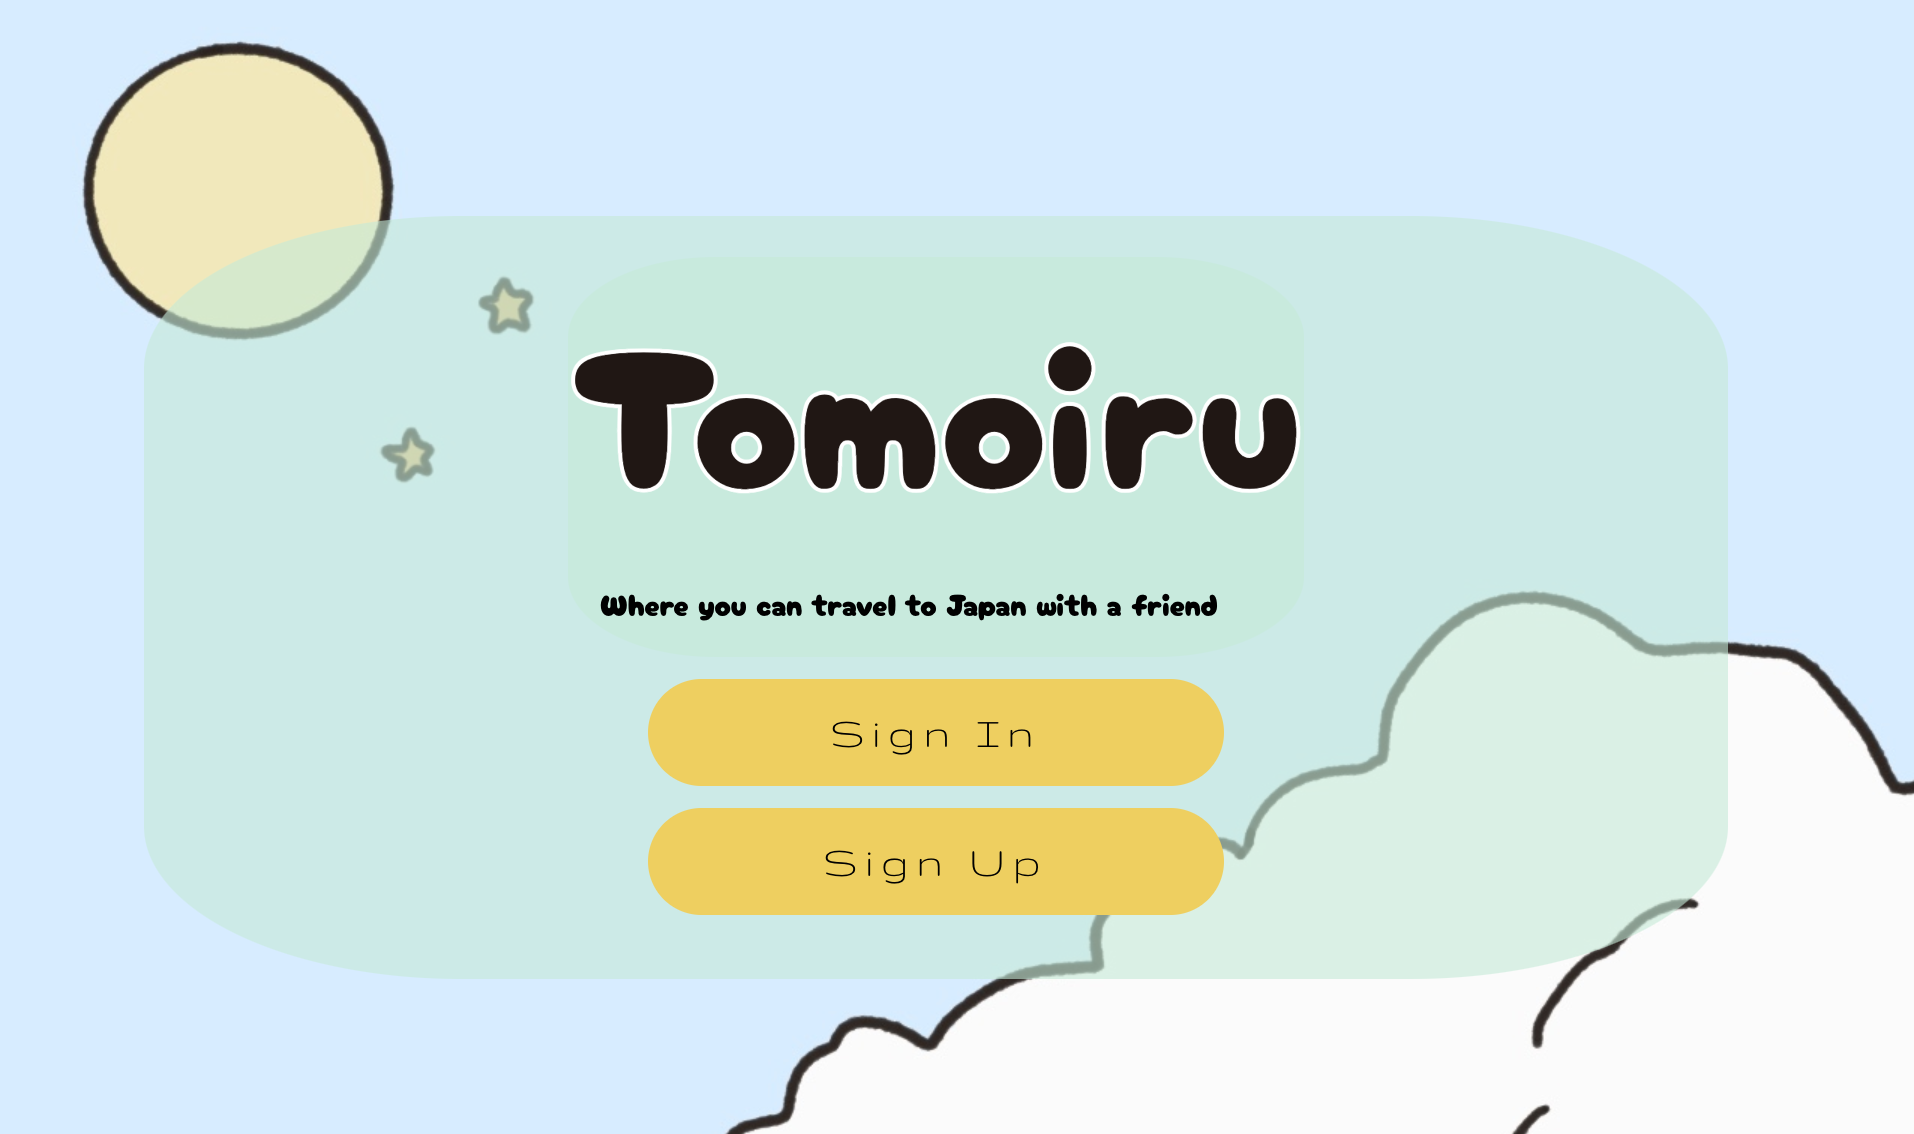
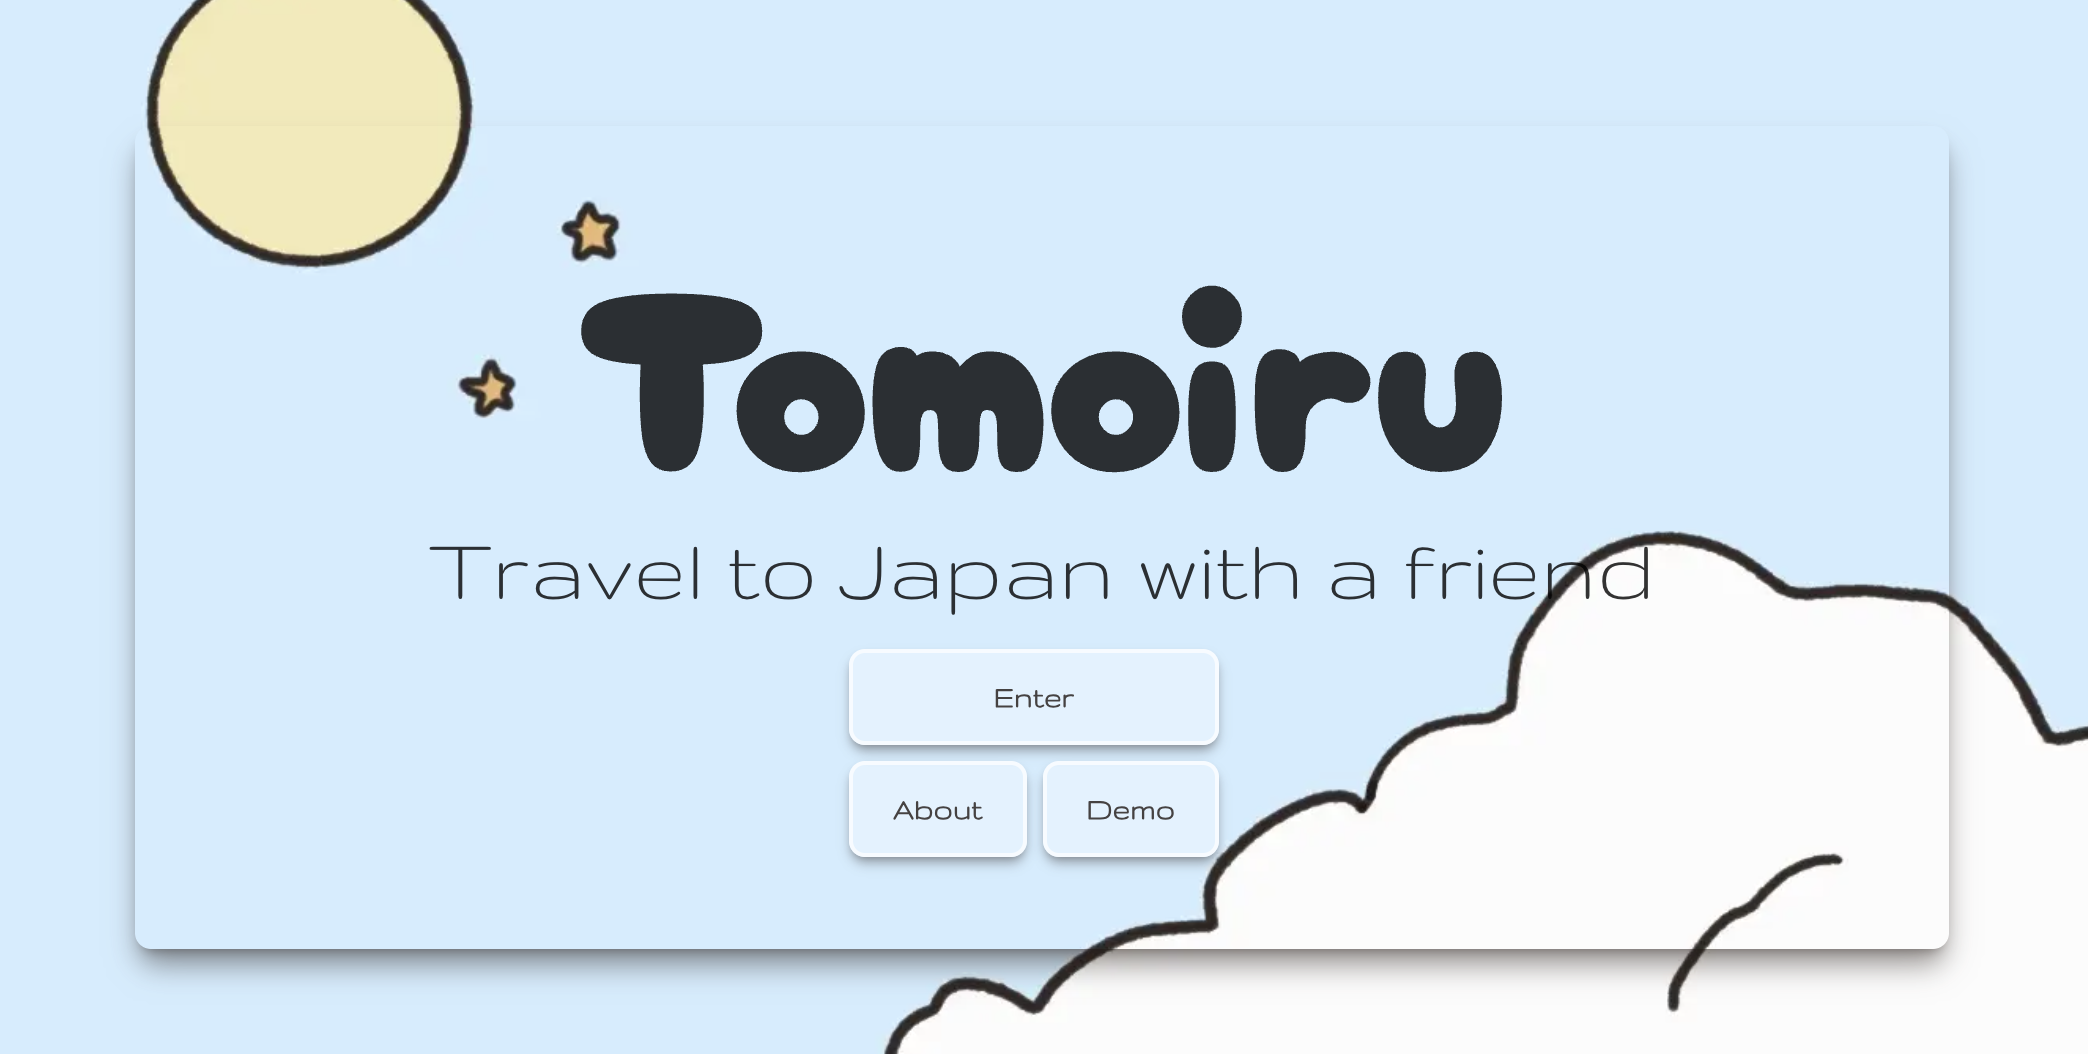
Merge pull request #18 from mira-kine/dev
Dev: Added to timeline

Pull request: Dev: Added to timeline

diff --git a/src/components/Journey.jsx b/src/components/Journey.jsx
@@ -2,10 +2,47 @@ import React from 'react';
 import { motion, AnimatePresence } from 'framer-motion';
 
 const journeyItems = [
-  'Biopsychology Cognition Neuroscience major',
-  'Mental health counselor',
-  'TEFL teacher',
-  'Software Engineer',
+  {
+    title:
+      'Biopsychology, Cognition, and Neuroscience major @ University of Michigan',
+    yearRange: '2014-2018',
+    subtitle: 'Survived the cold of Ann Arbor',
+    description:
+      'I learned extensively about humans and our minds, and how it is all connected.',
+  },
+  {
+    title: 'Mental health counselor @ Seneca Family of Agencies',
+    yearRange: '2018-2021',
+    subtitle: 'Crisis counseling, mental health advocacy and social work',
+    description:
+      'Had the opportunity of working with students who managed to stress the life out of me and then give it back ten-fold. I learned how to digest many complex problems at once while holding individual needs.',
+  },
+  {
+    title: 'TEFL teacher and STEP Tutor',
+    yearRange: '2021-2022',
+    subtitle: 'Teaching English online and tutoring Title I students',
+    description:
+      'My counseling hours were reduced due to covid, so I got a TEFL certificate and picked up tutoring Title I students in LA. This is where I had to learn Javascript along side my students, and realized that it could be another avenue for empowering the communities that I care about... and it was fun.',
+  },
+  {
+    title: 'Full-Stack Software Engineer',
+    yearRange: '2021-2022',
+    subtitle: 'Freelance + Open Source Projects',
+    description:
+      'After completing a 1000+ hour intensive coding bootcamp, I continued to grow my engineering skills by contributing to Hack for LA (Home Unites Us) and built websites for small artists. This gave me a good start in learning how to work within engineering teams, and how to bring websites from design to production.',
+  },
+  {
+    title: 'Software QA @ Discover Echo',
+    yearRange: '2023-2024',
+    description:
+      'Started by testing iOS and Windows based microscopy software (saw a tardigrade!). Developed an iOS Diagnostic Tool that captures real time system states and was promoted to Junior Software Engineer after 7 months.',
+  },
+  {
+    title: 'Full-Stack Software Engineer @ Discover Echo',
+    yearRange: '2024-Present',
+    description:
+      "Now I get to work across the stack on a range of projects: an end-to-end licensing system, calibration software in C++ and C#, and internal tools that support the broader team. It's taught me about how products come together, from customer pain point to production code... and much more.",
+  },
 ];
 
 const timelineVariants = {
@@ -61,29 +98,18 @@ const containerVariants = {
   },
 };
 
-export default function Journey({ onImageClick, isTriggered }) {
+export default function Journey({ isTriggered }) {
   return (
     <AnimatePresence>
       {isTriggered && (
         <motion.div
-          className="relative w-full max-w-2xl mt-8 px-4 pointer-events-auto"
+          className="relative w-full max-w-2xl tablet:max-w-3xl laptop:max-w-4xl mt-8 px-4 pointer-events-auto"
+          aria-label="Career journey timeline"
           initial="hidden"
           animate="visible"
           exit="hidden"
         >
-          <motion.button
-            onClick={onImageClick}
-            className="absolute -top-4 right-4 bg-primary text-white rounded-full w-8 h-8 flex items-center justify-center shadow-lg hover:bg-primary_light hover:text-dark transition-colors z-30"
-            whileHover={{ scale: 1.1 }}
-            whileTap={{ scale: 0.9 }}
-            initial={{ opacity: 0 }}
-            animate={{ opacity: 1 }}
-            transition={{ delay: 0.2 }}
-          >
-            ✕
-          </motion.button>
-
-          <div className="relative pl-8 md:pl-12">
+          <div className="relative pl-8 md:pl-12 tablet:pl-32">
             <div className="absolute left-4 md:left-6 top-0 bottom-0 w-0.5 bg-gray-300 overflow-hidden">
               <motion.div
                 variants={timelineVariants}
@@ -93,7 +119,7 @@ export default function Journey({ onImageClick, isTriggered }) {
 
             <motion.div
               variants={containerVariants}
-              className="space-y-8 md:space-y-12"
+              className="space-y-10 tablet:space-y-12"
             >
               {journeyItems.map((item, index) => (
                 <motion.div
@@ -106,9 +132,31 @@ export default function Journey({ onImageClick, isTriggered }) {
                     className="absolute -left-[1.35rem] md:-left-[1.85rem] top-3 w-4 h-4 rounded-full bg-primary border-4 border-white shadow-lg z-10"
                   />
 
-                  <div className="bg-white border-2 border-primary rounded-lg p-4 md:p-6 shadow-lg hover:shadow-xl transition-shadow duration-300 relative">
-                    <p className="text-dark font-sans text-base md:text-lg pr-4">
-                      {item}
+                  <motion.time
+                    variants={journeyItemVariants}
+                    className="block text-sm text-primary font-sans mb-2 tablet:hidden"
+                  >
+                    {item.yearRange}
+                  </motion.time>
+
+                  <motion.time
+                    variants={journeyItemVariants}
+                    className="hidden tablet:block absolute -left-28 top-3 text-sm text-primary font-sans text-right w-20"
+                  >
+                    {item.yearRange}
+                  </motion.time>
+
+                  <div className="bg-white border-2 border-primary rounded-xl p-6 tablet:p-8 shadow-md hover:shadow-lg transition-shadow duration-300 relative">
+                    <h3 className="text-dark font-title text-base md:text-lg font-semibold mb-2">
+                      {item.title}
+                    </h3>
+                    {item.subtitle && (
+                      <p className="text-dark font-sans text-xs italic mb-2">
+                        {item.subtitle}
+                      </p>
+                    )}
+                    <p className="text-sm font-normal text-black">
+                      {item.description}
                     </p>
                   </div>
                 </motion.div>

diff --git a/src/views/ProjectsList.jsx b/src/views/ProjectsList.jsx
@@ -36,25 +36,6 @@ export default function ProjectsList() {
           </ProjectCard>
 
           <ProjectCard
-            imagePath="shop-ade"
-            projectTitle="Shop-Ade"
-            description="A retro arcade themed smart shopping list app that learns and
-            predicts your buying habits for an easier shoppers experience!"
-          >
-            <ProjectLink
-              href="https://tcl-45-smart-shopping-list.firebaseapp.com/"
-              title="Demo"
-            ></ProjectLink>
-
-            <ProjectLink
-              href="https://github.com/the-collab-lab/tcl-45-smart-shopping-list"
-              title="GitHub"
-            ></ProjectLink>
-
-            <ProjectButton></ProjectButton>
-          </ProjectCard>
-
-          <ProjectCard
             imagePath="huu"
             projectTitle="Home Unites Us"
             description="Open source project developing a web platform designed to

diff --git a/src/components/Footer.jsx b/src/components/Footer.jsx
@@ -1,30 +1,29 @@
 import React from 'react';
-import { Link } from 'react-router-dom';
 
 export default function Footer() {
   return (
     <div className="bg-white w-full h-full p-8 flex">
       <div className="flex flex-col tablet:flex-row justify-around w-full p-4">
         <div>
-          <Link
+          <a
             href="https://www.linkedin.com/in/mira-kinebuchi/"
             target="_blank"
             className="text-dark font-title text-lg underline"
           >
             LinkedIn
-          </Link>
+          </a>
         </div>
         <div>
-          <Link
+          <a
             href="https://github.com/mira-kine"
             target="_blank"
             className="text-dark font-title text-lg underline"
           >
             GitHub
-          </Link>
+          </a>
         </div>
         <div className="text-dark text-lg">
-          Made with love by Mira Kinebuchi &copy;
+          Made with love by Mira Kinebuchi &copy; 2026
         </div>
       </div>
     </div>

diff --git a/src/views/Landing.jsx b/src/views/Landing.jsx
@@ -33,9 +33,10 @@ export default function Landing() {
         className="flex flex-col justify-center items-center w-full"
       >
         <motion.button
-          whileHover={{ scale: 1.1 }}
-          whileTap={{ scale: 0.9 }}
-          onClick={() => setIsOpen((isOpen) => !isOpen)}
+          whileHover={!isOpen ? { scale: 1.1 } : {}}
+          whileTap={!isOpen ? { scale: 0.9 } : {}}
+          onClick={() => setIsOpen(true)}
+          aria-label="Reveal my career journey"
           className="relative"
         >
           <img
@@ -49,7 +50,7 @@ export default function Landing() {
         </motion.button>
         {!isOpen && <span className="p-8">Hint: click the nutshell!</span>}
 
-        <Journey onImageClick={() => setIsOpen(false)} isTriggered={isOpen} />
+        <Journey isTriggered={isOpen} />
       </div>
     </div>
   );